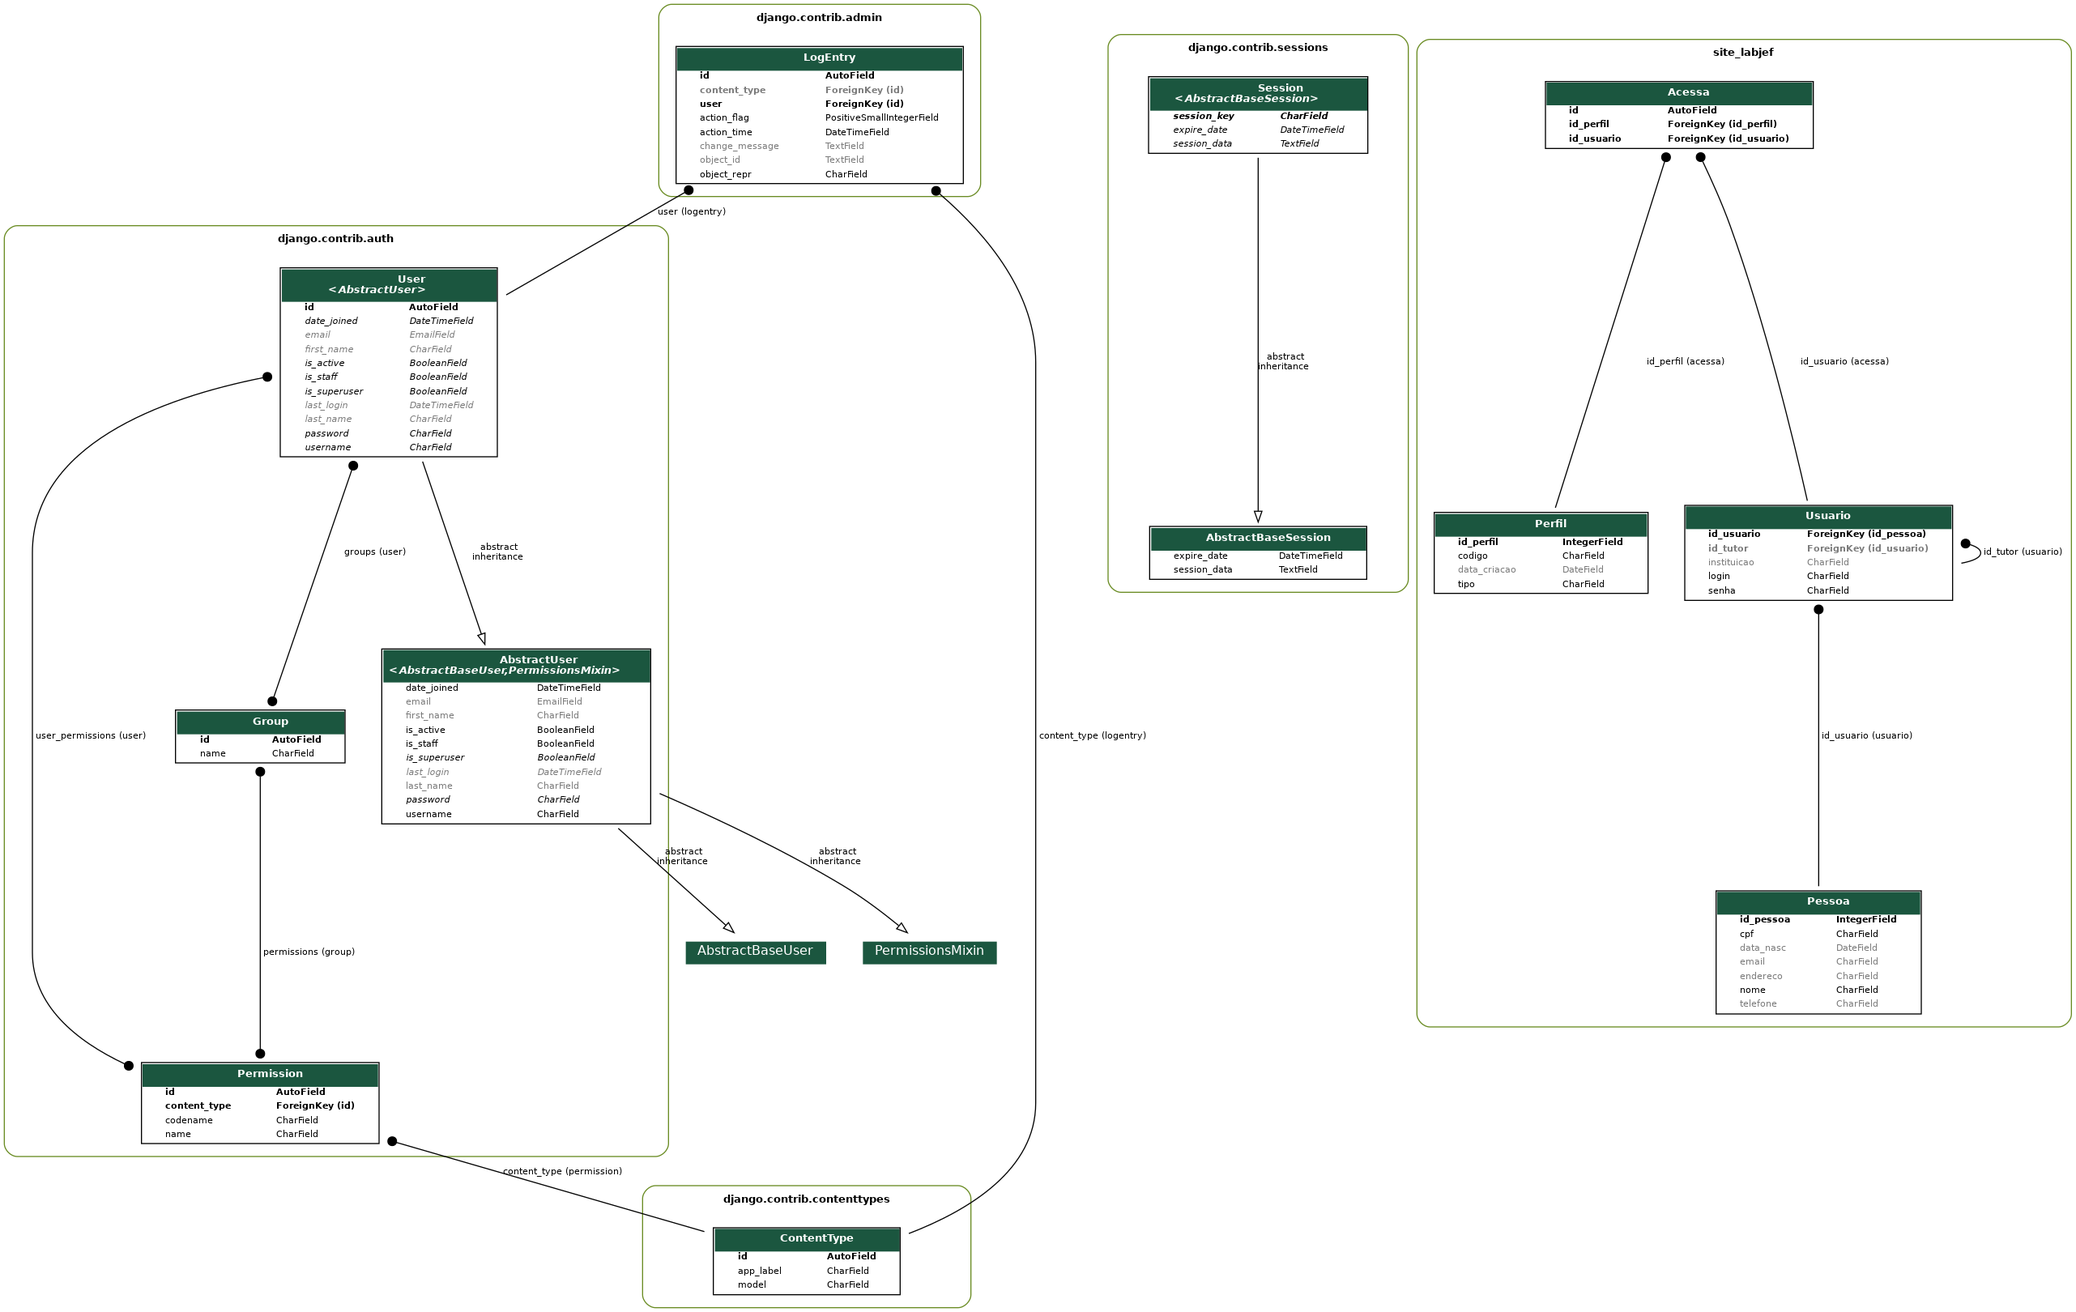
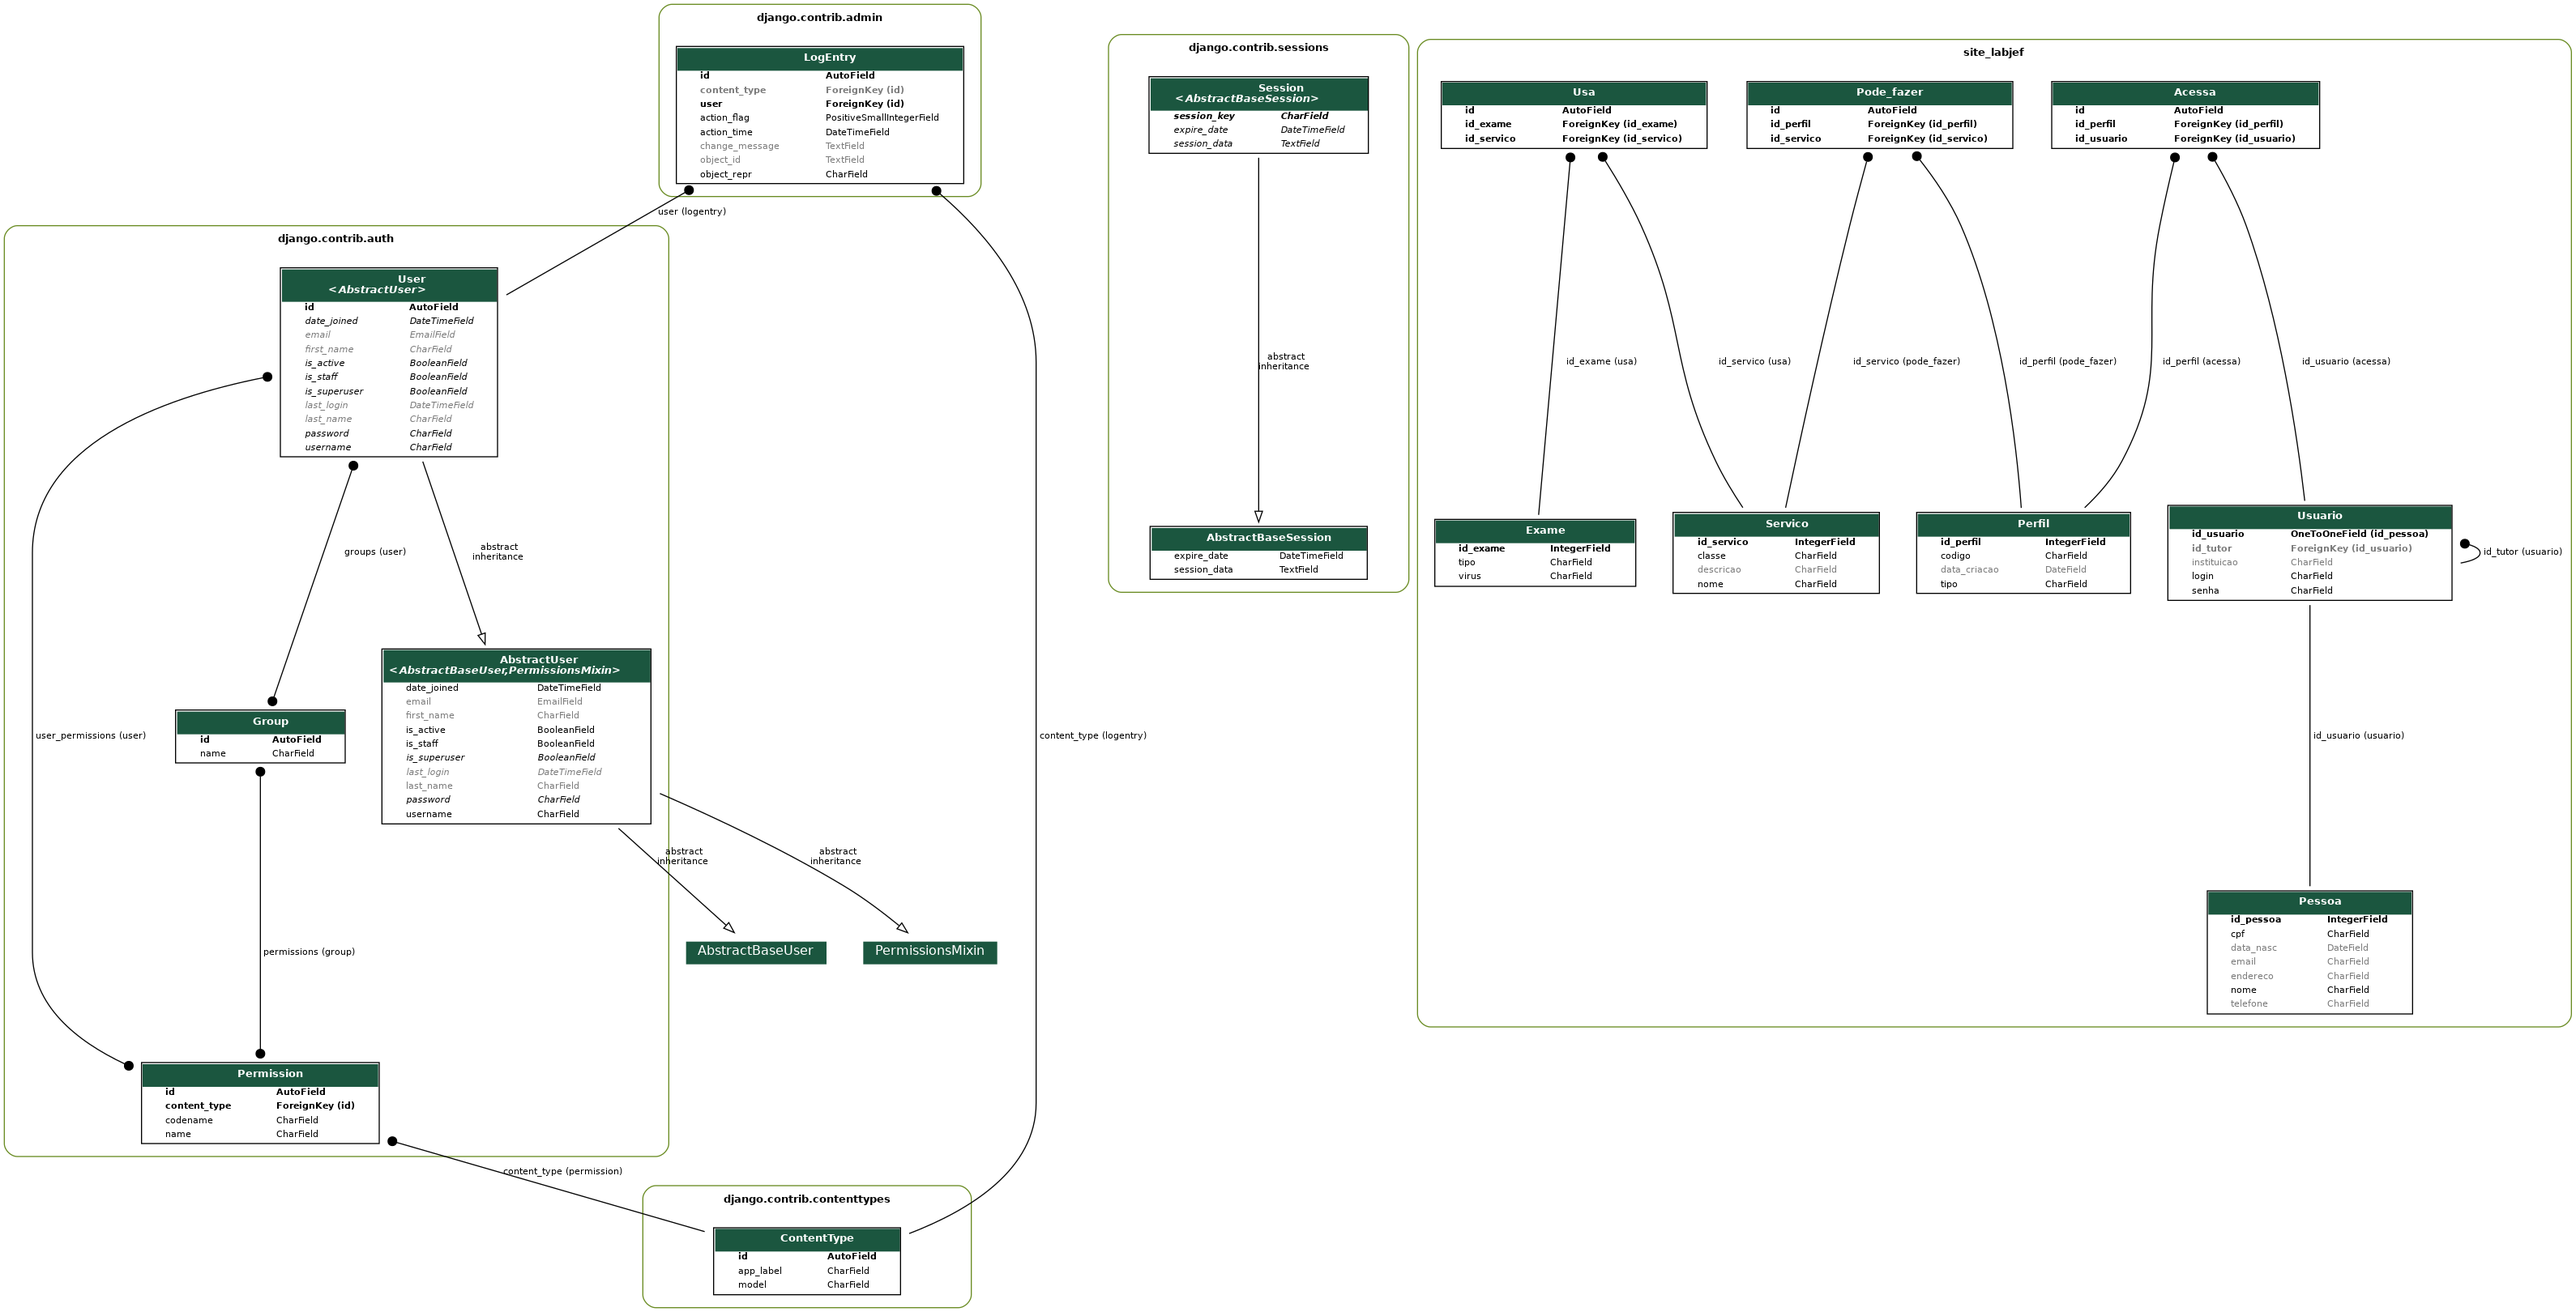
migrates and fixes some stuff

diff --git a/site_labjef/migrations/0003_auto_20200624_0406.py b/site_labjef/migrations/0003_auto_20200624_0406.py
@@ -1,0 +1,29 @@
+# Generated by Django 3.0.7 on 2020-06-24 04:06
+
+from django.db import migrations, models
+import django.db.models.deletion
+
+
+class Migration(migrations.Migration):
+
+    dependencies = [
+        ('site_labjef', '0002_auto_20200623_2231'),
+    ]
+
+    operations = [
+        migrations.AddField(
+            model_name='perfil',
+            name='servicos',
+            field=models.ManyToManyField(through='site_labjef.Pode_fazer', to='site_labjef.Servico'),
+        ),
+        migrations.AddField(
+            model_name='servico',
+            name='exames',
+            field=models.ManyToManyField(through='site_labjef.Usa', to='site_labjef.Exame'),
+        ),
+        migrations.AlterField(
+            model_name='usuario',
+            name='id_usuario',
+            field=models.OneToOneField(on_delete=django.db.models.deletion.CASCADE, primary_key=True, serialize=False, to='site_labjef.Pessoa'),
+        ),
+    ]

diff --git a/readme.md b/readme.md
@@ -56,6 +56,4 @@
 - Arrumei o admin.py pra exibir as colunas certinho
 - Arrumei o model do usuário pra ser OneToOneField
 - Arrumei alguns models pra incluir campos de ManyToMany
-- Problemas:
-    - Meu migrate está com uns problemas por causa do banco que eu criei, não parece estar relacionado ao Docker. Mas qualquer coisa é só voltar atrás nos commits.
-    - Por causa disso, só estou colocando no GitHub o `admin.py`, o `model.py` e o `README.md`
+- Rodei `makemigrations` e `migrate`
